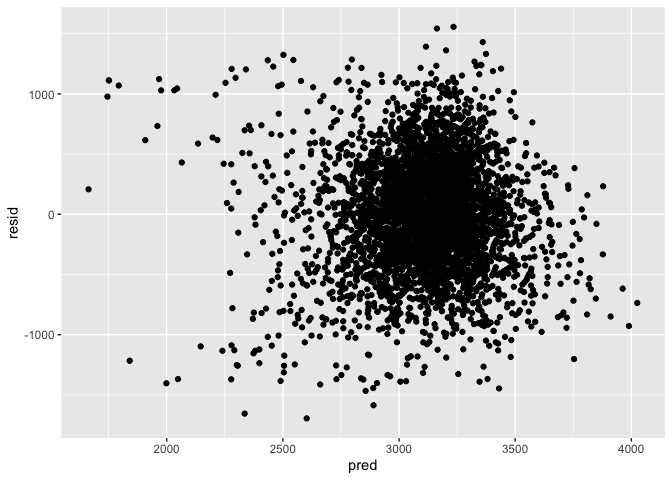
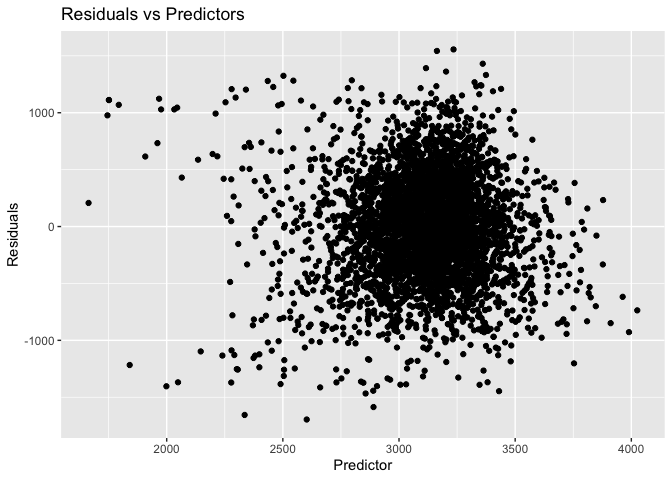
Final changes

diff --git a/p8105_hw6_gb2685.md b/p8105_hw6_gb2685.md
@@ -254,11 +254,18 @@ lin_model %>%
 | gaweeks            |   62.707 |       0 |
 | baby’s sex: female | \-90.744 |       0 |
 
+The main effects show significant p values
+
 ``` r
 birthweight_df %>% 
   modelr::add_residuals(lin_model) %>% 
   modelr::add_predictions(lin_model) %>%
-  ggplot(aes(x = pred, y = resid)) + geom_point()
+  ggplot(aes(x = pred, y = resid)) + geom_point() +
+  labs(
+    title = "Residuals vs Predictors",
+    x = "Predictor",
+    y = "Residuals"
+  )
 ```
 
 ![](p8105_hw6_gb2685_files/figure-gfm/unnamed-chunk-11-1.png)<!-- -->
@@ -429,6 +436,8 @@ bootstrap_results_r_squared%>%
 
 ![](p8105_hw6_gb2685_files/figure-gfm/unnamed-chunk-19-1.png)<!-- -->
 
+**Analysing**
+
 ``` r
 bootstrap_results_log_b1_b2 = 
   boot_straps %>% 
@@ -467,6 +476,8 @@ bootstrap_results_log_b1_b2%>%
 
 ![](p8105_hw6_gb2685_files/figure-gfm/unnamed-chunk-20-1.png)<!-- -->
 
+**Identifying the 2.5% and 97.5% quantiles**
+
 ``` r
 bootstrap_results_r_squared %>%
   summarize(
@@ -481,7 +492,7 @@ bootstrap_results_r_squared %>%
 
 The distribution appears to be normally distributed.
 
-The confidence interval: (0.894, 0.927)
+The 95% confidence interval: (0.894, 0.927)
 
 ``` r
 bootstrap_results_log_b1_b2%>%
@@ -493,7 +504,7 @@ bootstrap_results_log_b1_b2%>%
     ## # A tibble: 1 x 2
     ##   ci_lower ci_upper
     ##      <dbl>    <dbl>
-    ## 1     1.96     2.06
+    ## 1     1.97     2.06
 
-The distribution appears to be normal. Th confidence interval: (1.97,
-2.06)
+The distribution appears to be normal. The 95% confidence interval:
+(1.96, 2.06)
